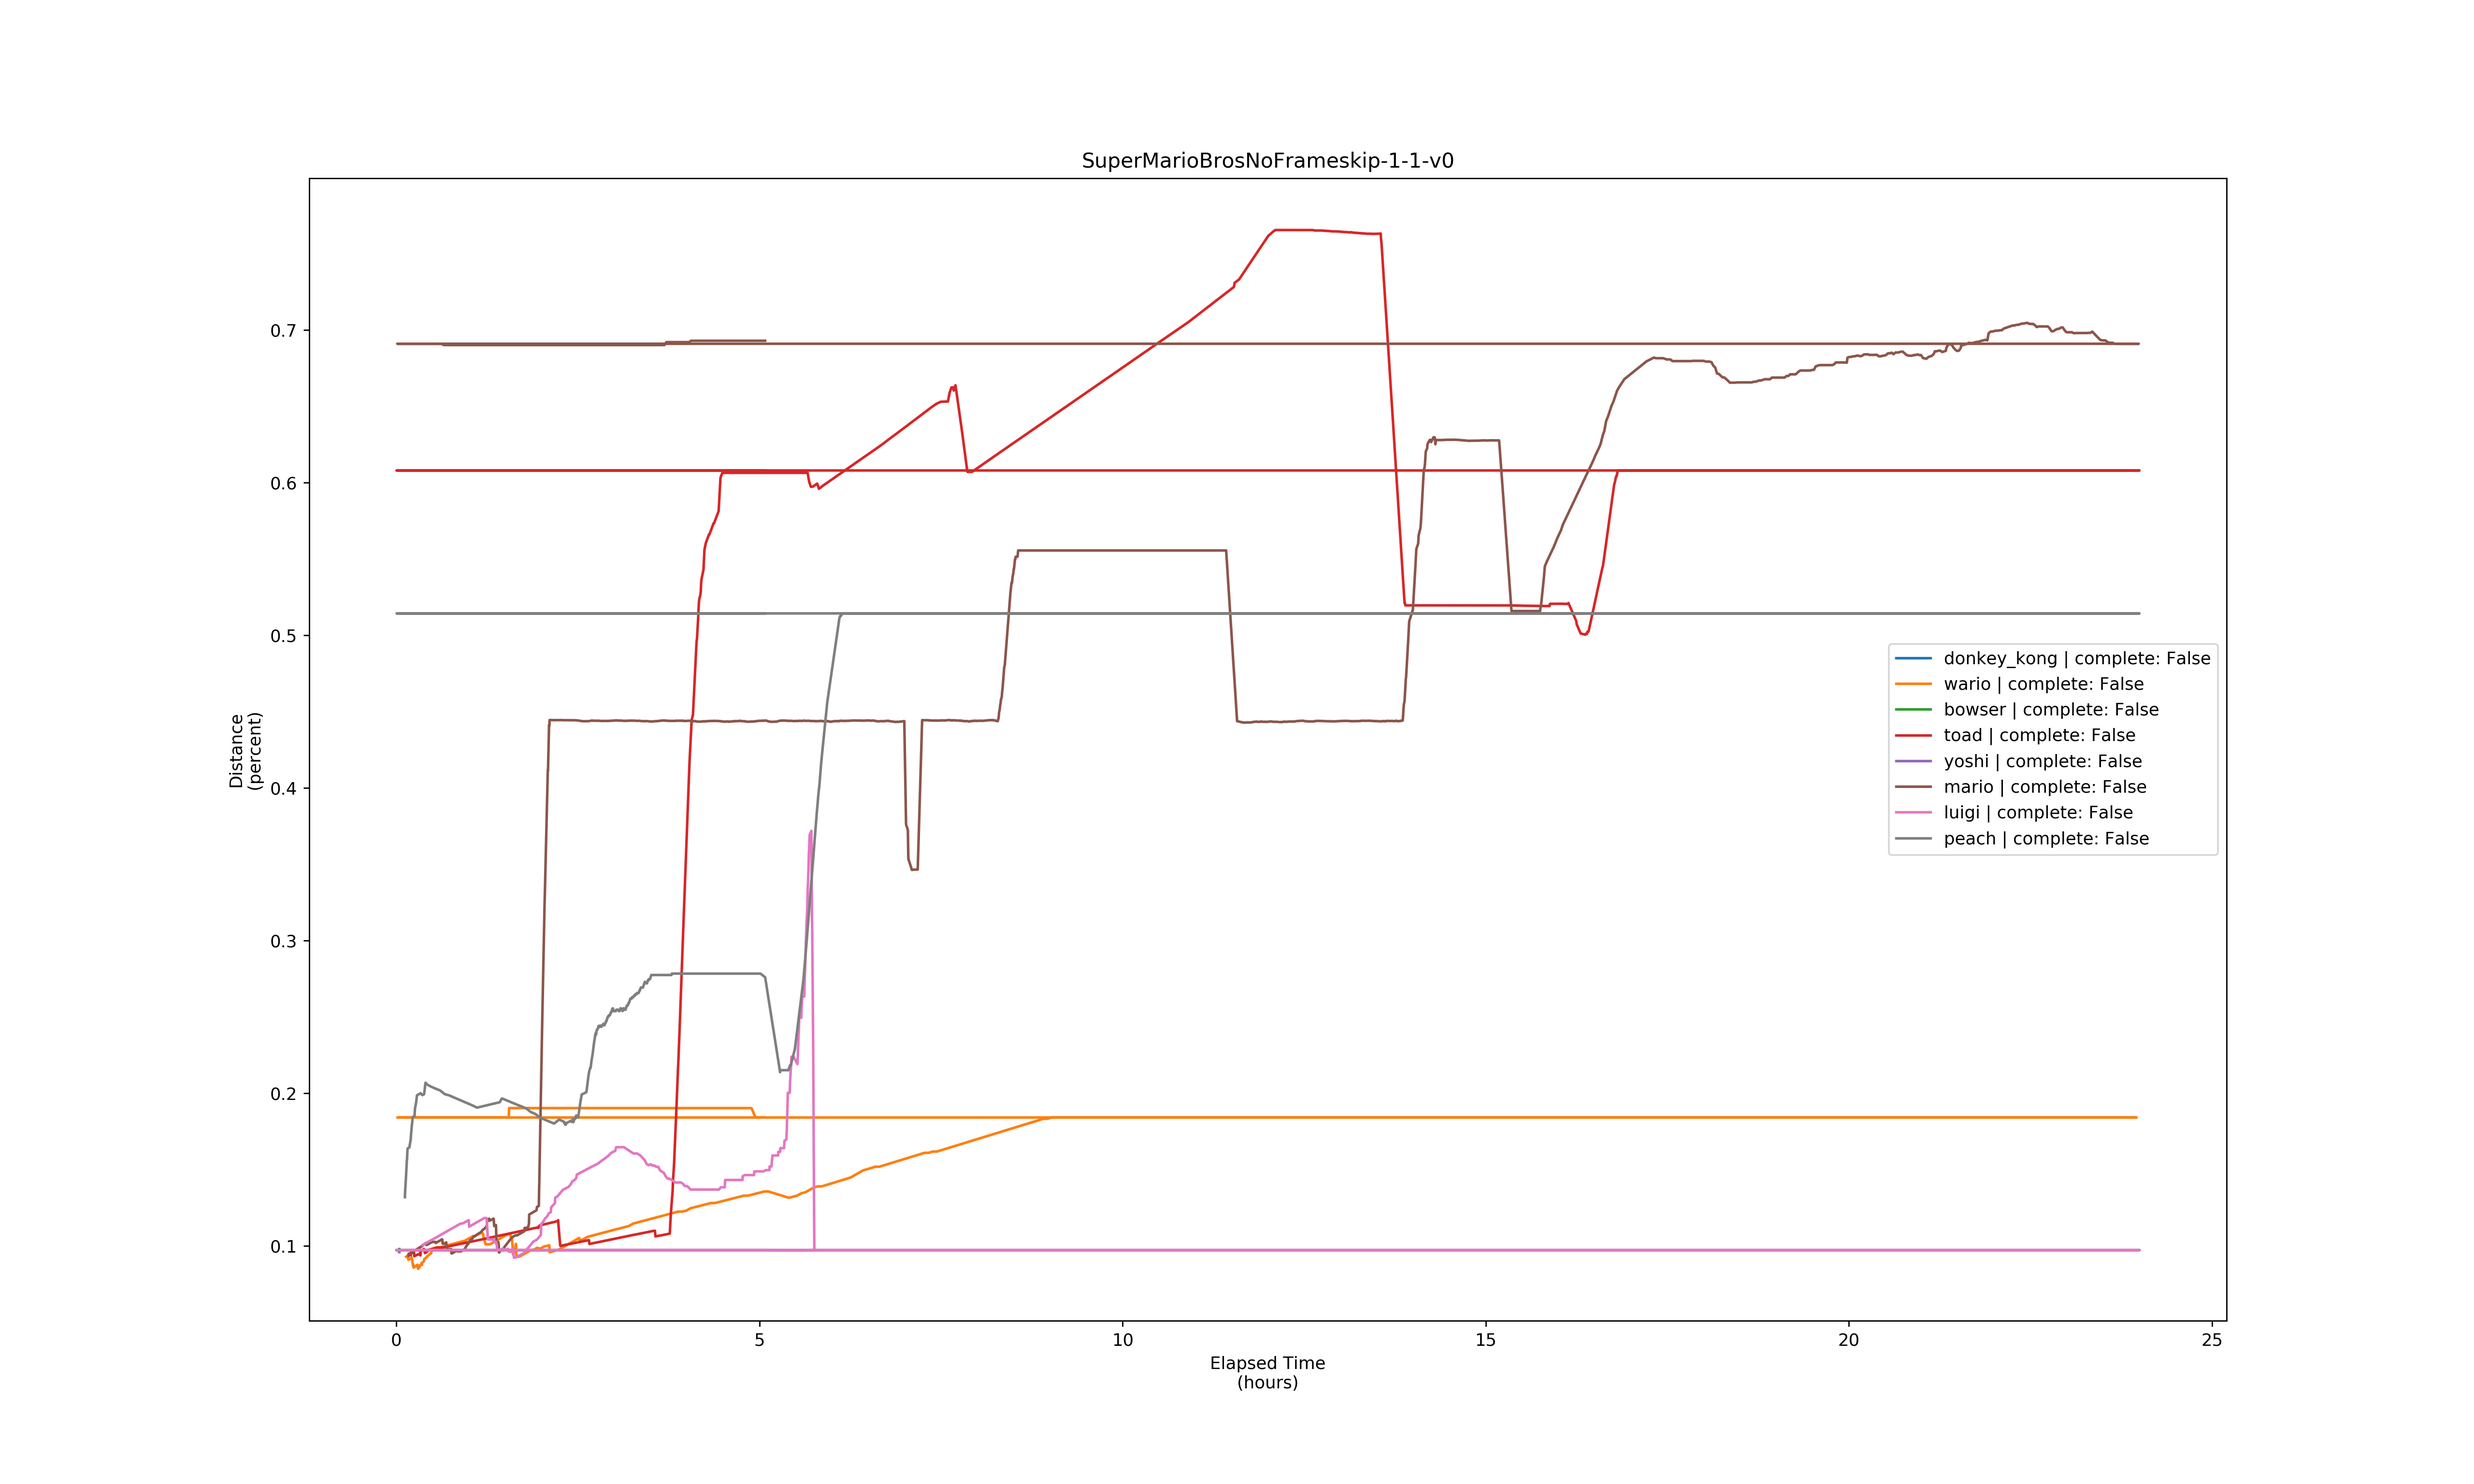
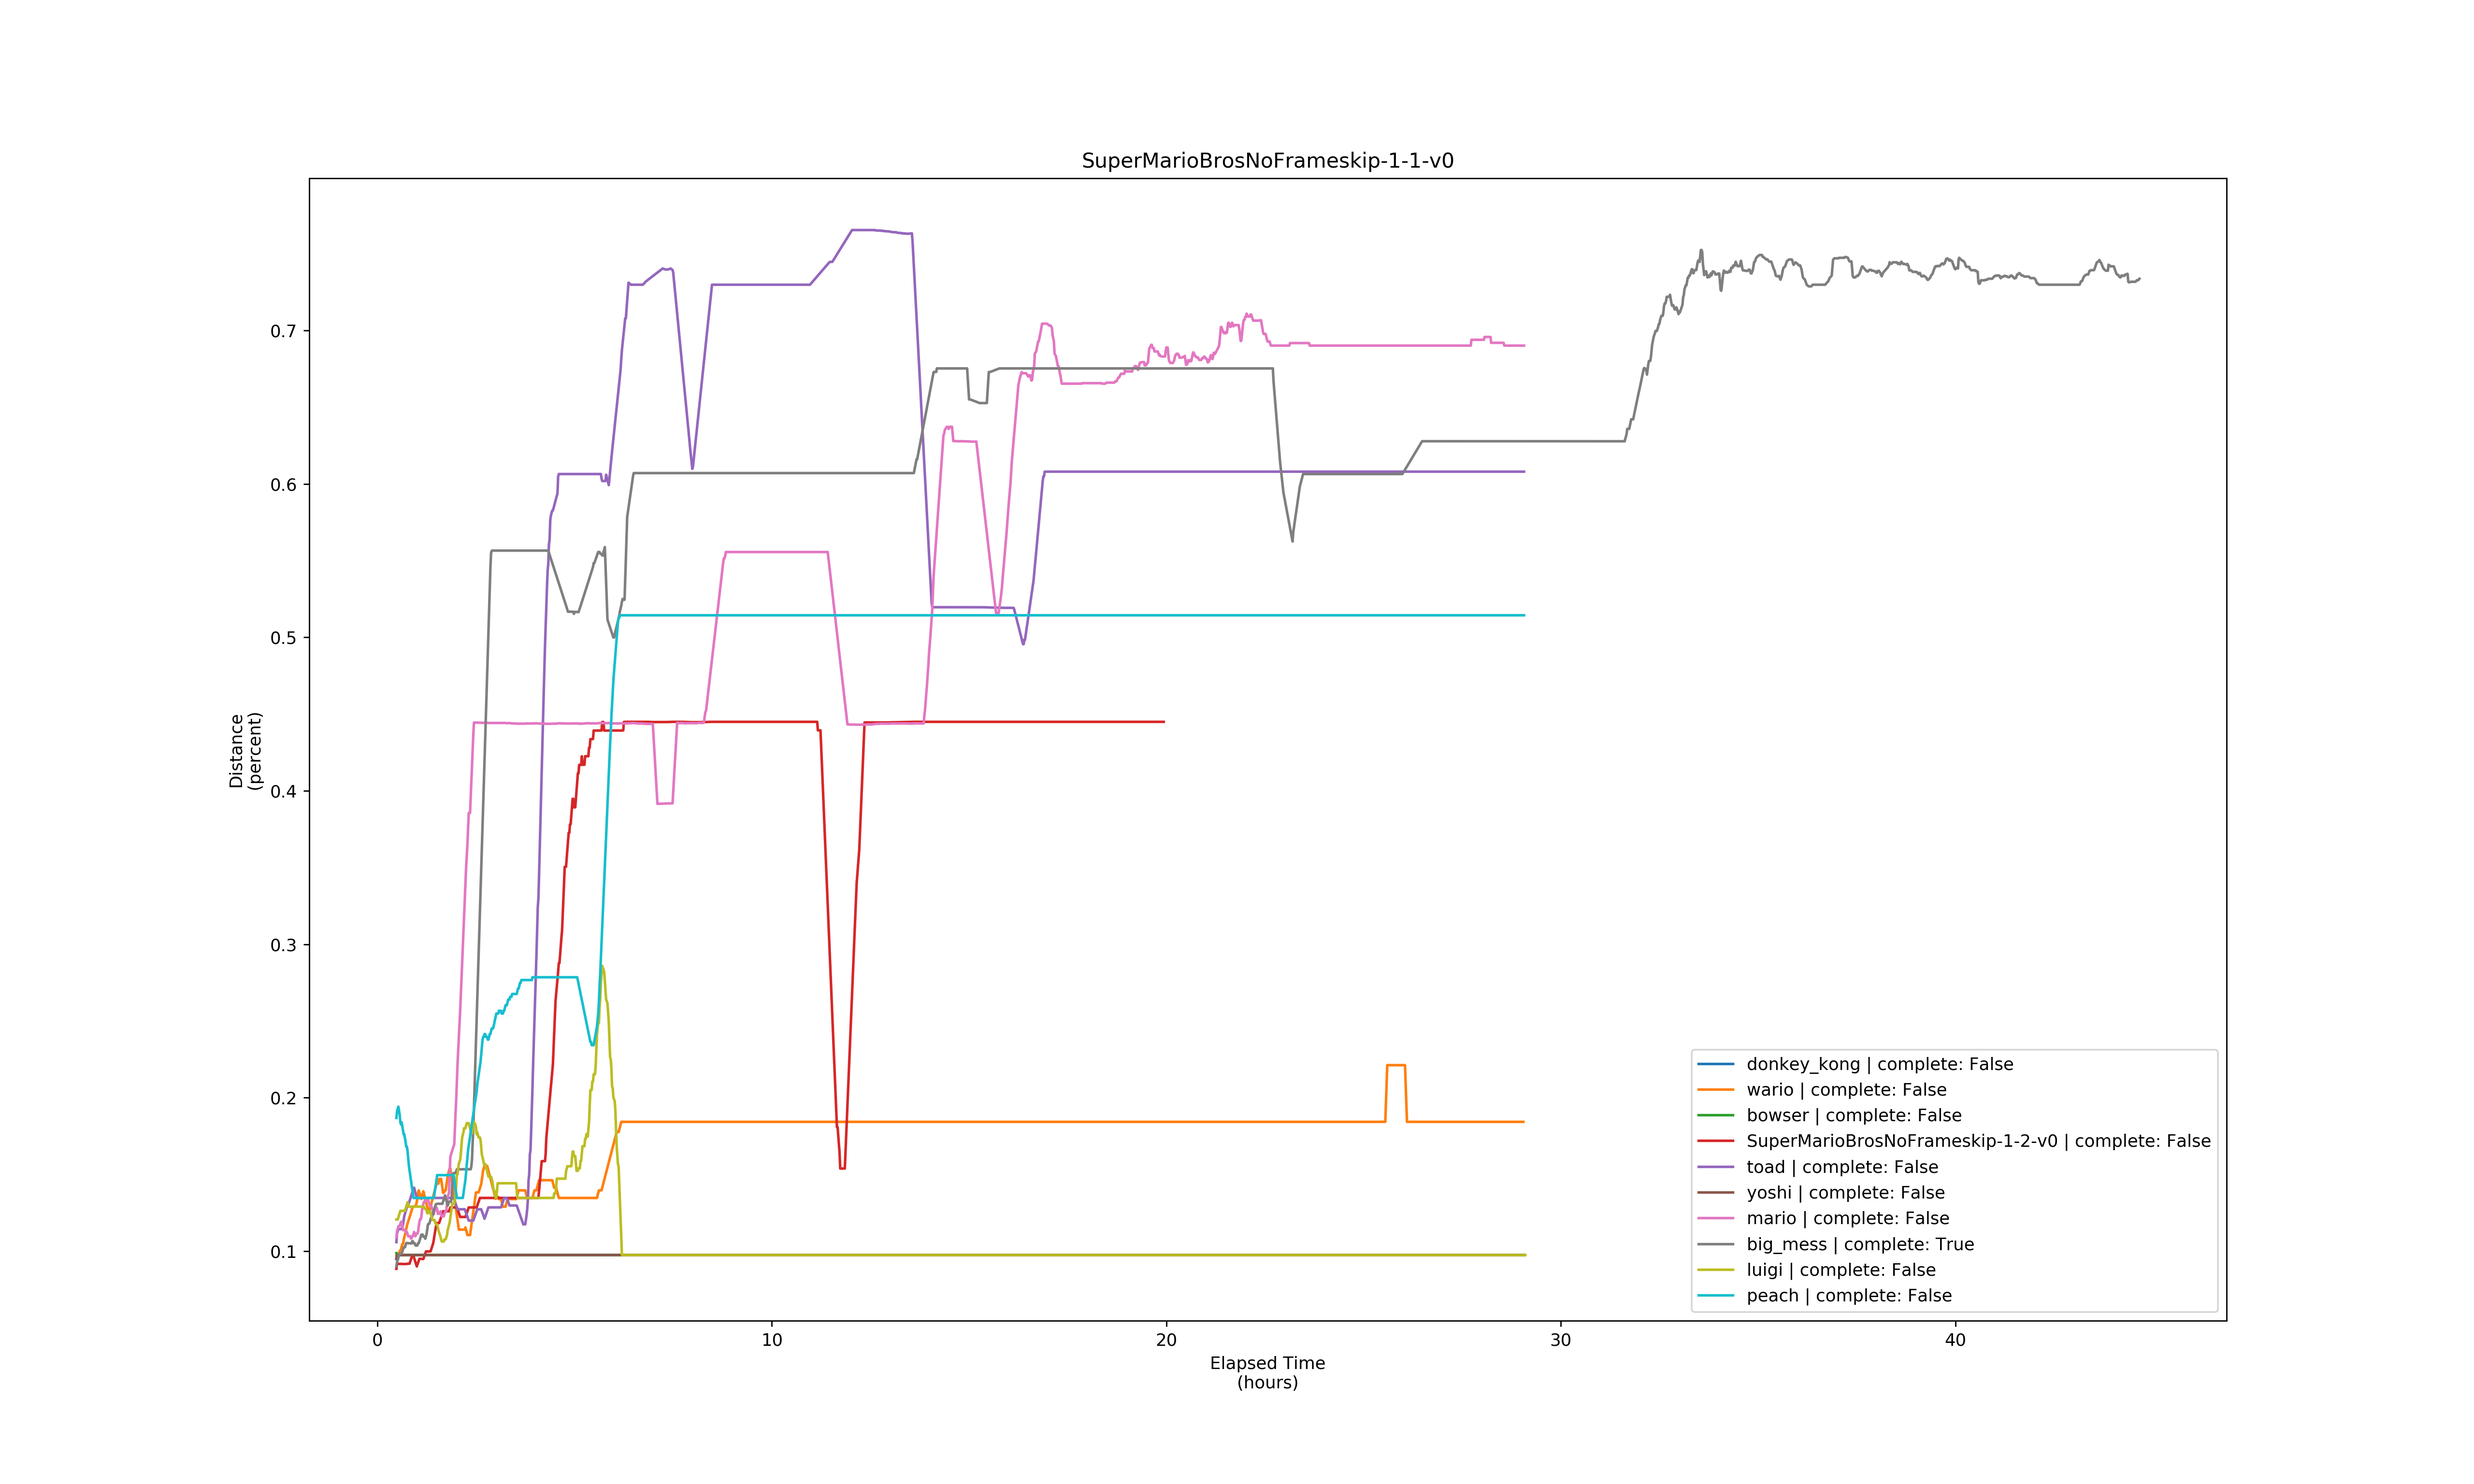
reimplemented greedy-epsilon schedule, and removed unused/stub files

diff --git a/utils/generate_plots.py b/utils/generate_plots.py
@@ -1,5 +1,6 @@
 import os
 import sys
+import argparse
 
 import pandas as pd
 import matplotlib.pyplot as plt
@@ -7,17 +8,22 @@ import matplotlib.pyplot as plt
 from parsers import log_parser, csv_parser
 
 
-ENV_NAME = 'SuperMarioBrosNoFrameskip-1-1-v0'
+parser = argparse.ArgumentParser('Mario.ai Plotting')
+parser.add_argument('--env-name', type=str, default='SuperMarioBrosNoFrameskip-1-1-v0', help='environment name to generate plots for')
+args = parser.parse_args()
+
+# ENV_NAME = 'SuperMarioBrosNoFrameskip-1-2-v0'
 
 
 def main(env):
-    log_dir = os.path.join('logs', ENV_NAME)
+    log_dir = os.path.join('logs', env)
     assert os.path.exists(log_dir), 'File not found'
 
     log_files = [f for f in os.listdir(log_dir) if f != '.DS_Store']
 
     plt.figure(figsize=(20, 12), dpi=256)
     for log in log_files:
+        print(log, ': reward')
         log_path = os.path.join(log_dir, log)
         df = log_parser(log_path)
 
@@ -25,12 +31,15 @@ def main(env):
         level_complete = df['flag_get'].any()
         episodes = df['done'].sum()
 
+        idx = pd.date_range(df['log_time'].min(), df['log_time'].max(), freq='T')
+
         df = df.set_index('log_time')
-        df.index = (df.index - df.index[0]).seconds
+        df = df.reindex(idx, method='pad')
+        df.index = df.index - df.index[0]
 
         plt.plot(
-            (df.index / 3600),
-            df['reward'].rolling(60).mean(),
+            df.index / pd.Timedelta(hours=1),
+            df['reward'].rolling(15).mean(),
             label=model_id,
         )
 
@@ -44,6 +53,8 @@ def main(env):
 
     plt.figure(figsize=(20, 12), dpi=256)
     for log in log_files:
+        print(log, ': distance')
+
         log_path = os.path.join(log_dir, log)
         df = log_parser(log_path)
 
@@ -51,17 +62,18 @@ def main(env):
         level_complete = df['flag_get'].any()
         episodes = df['done'].sum()
 
+        idx = pd.date_range(df['log_time'].min(), df['log_time'].max(), freq='T')
+
         df = df.set_index('log_time')
-        df.index = (df.index - df.index[0]).seconds
+        df = df.reindex(idx, method='pad')
+        df.index = df.index - df.index[0]
 
         plt.plot(
-            (df.index / 3600),
-            (df['x_position'].rolling(60).mean() / 3225),
+            df.index / pd.Timedelta(hours=1),
+            (df['x_position'].rolling(30).mean() / 3225),
             label=f"{model_id} | complete: {level_complete}",
         )
 
-
-    # plt.ylim(0, 3225)
     plt.title(env)
     plt.ylabel('Distance\n(percent)')
     plt.xlabel('Elapsed Time\n(hours)')
@@ -71,4 +83,4 @@ def main(env):
 
 
 if __name__ == "__main__":
-    _ = main(ENV_NAME)
+    _ = main(args.env_name)

diff --git a/a3c/train.py b/a3c/train.py
@@ -80,14 +80,14 @@ def train(rank, args, shared_model, counter, lock, optimizer=None, device='cpu',
             reason = ''
 
             if select_sample:
-                # rand = random.random()
-                # epsilon = get_epsilon(t)
-                # if rand < epsilon:
-                #     action = torch.randint(0, action_space, (1,1))
-                #     reason = 'random - uniform'
-                # else:
-                action = prob.multinomial(1)
-                reason = 'random - multinomial'
+                rand = random.random()
+                epsilon = get_epsilon(t)
+                if rand < epsilon:
+                    action = torch.randint(0, action_space, (1,1))
+                    reason = 'random - uniform'
+                else:
+                    action = prob.multinomial(1)
+                    reason = 'random - multinomial'
             else:
                 action = prob.max(-1, keepdim=True)[1]
                 reason = 'choice'

diff --git a/utils/greedy_epsilon.py b/utils/greedy_epsilon.py
@@ -1,5 +1,27 @@
 import math
 
+import matplotlib.pyplot as plt
+import seaborn as sns
 
-def get_epsilon(step, eps_end=0.5, eps_start=0.9, eps_decay=200):
+
+sns.set_style('whitegrid')
+
+
+def get_epsilon(step, eps_end=0.025, eps_start=0.5, eps_decay=2000):
     return eps_end + (eps_start - eps_end) * math.exp(-1 * step / eps_decay)
+
+def plot_epsilon_schedule(episodes=1_000_000):
+    eps = [get_epsilon(e) for e in range(episodes)]
+    plt.figure(figsize=(10, 6), dpi=256)
+    plt.plot(eps)
+    plt.xlim(0, episodes)
+    plt.ylim(0, 1.0)
+    plt.title('$\\varepsilon$-greedy Schedule')
+    plt.xlabel('Episode')
+    plt.ylabel('$\\varepsilon$')
+    plt.savefig('assets/epsilon-schedule.png')
+    print("Done")
+
+
+if __name__ == "__main__":
+    _ = plot_epsilon_schedule()

diff --git a/utils/cli.py b/utils/cli.py
@@ -38,6 +38,7 @@ def get_args():
     parser.add_argument('--reset-delay', type=int, default=60, help='delay between evaluations')
     parser.add_argument('--save-dir', type=str, default='records', help='file to save results to')
     parser.add_argument('--save-file', type=str, default='results.csv', help='file to save results to')
+    parser.add_argument('--greedy-eps', action='store_true', help='perform uniform random action according to greedy-epsilon schedule')
 
     args = parser.parse_args()
 
